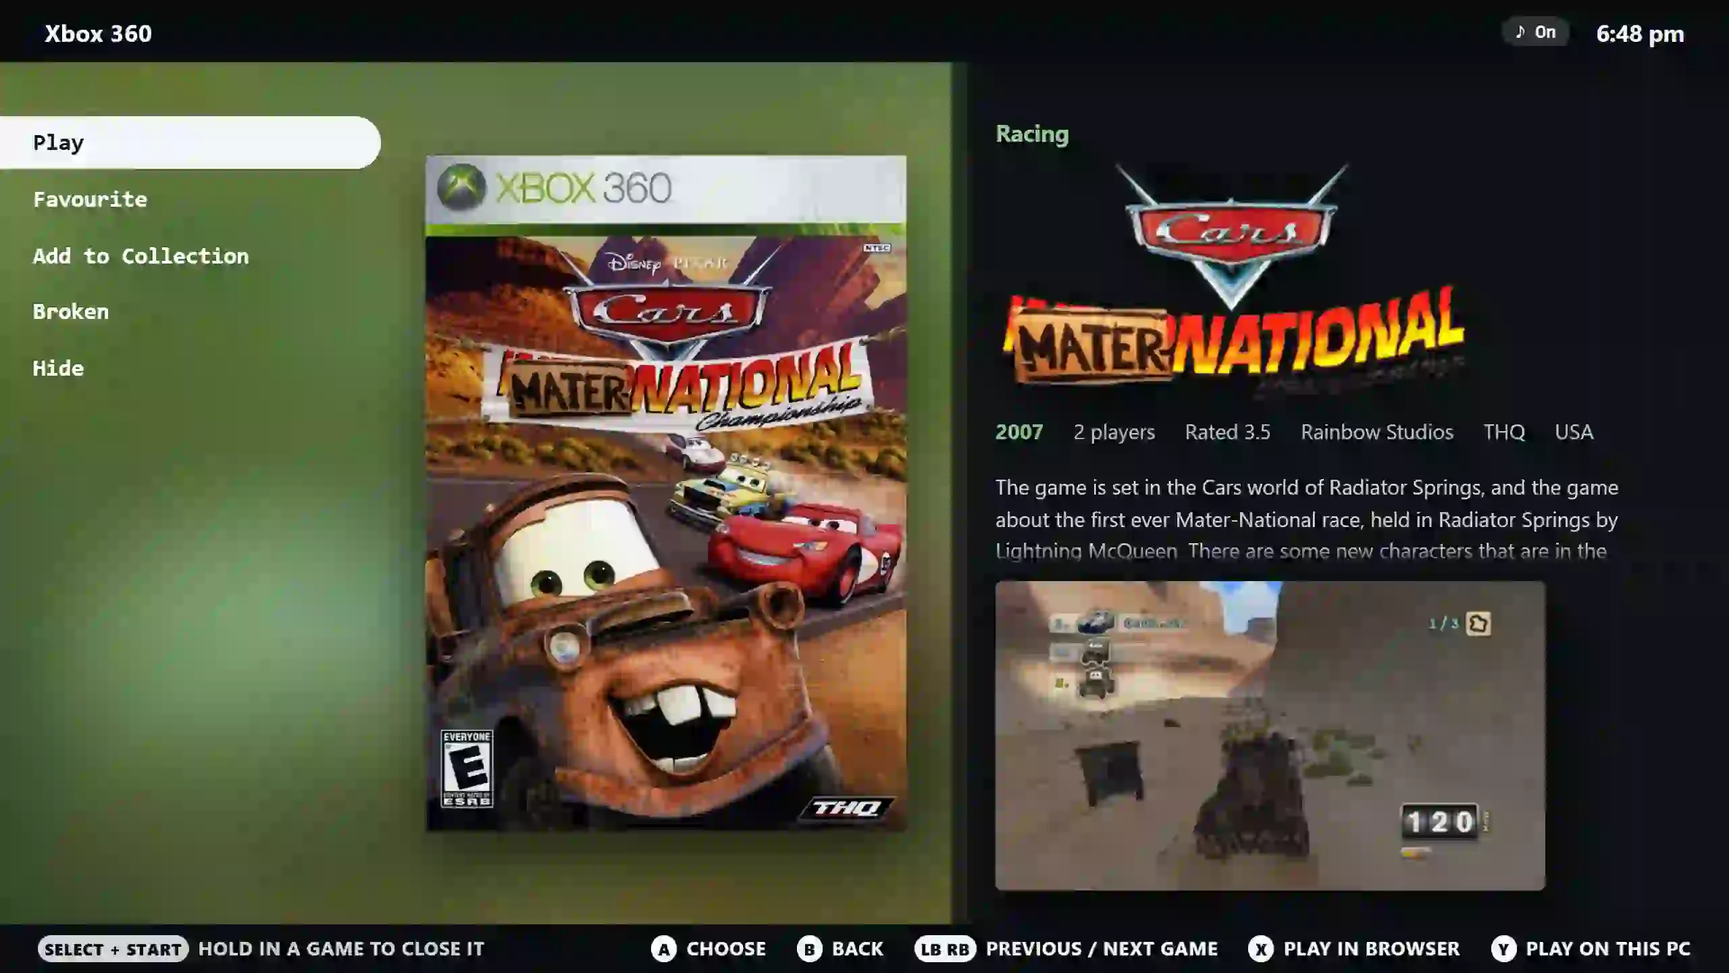
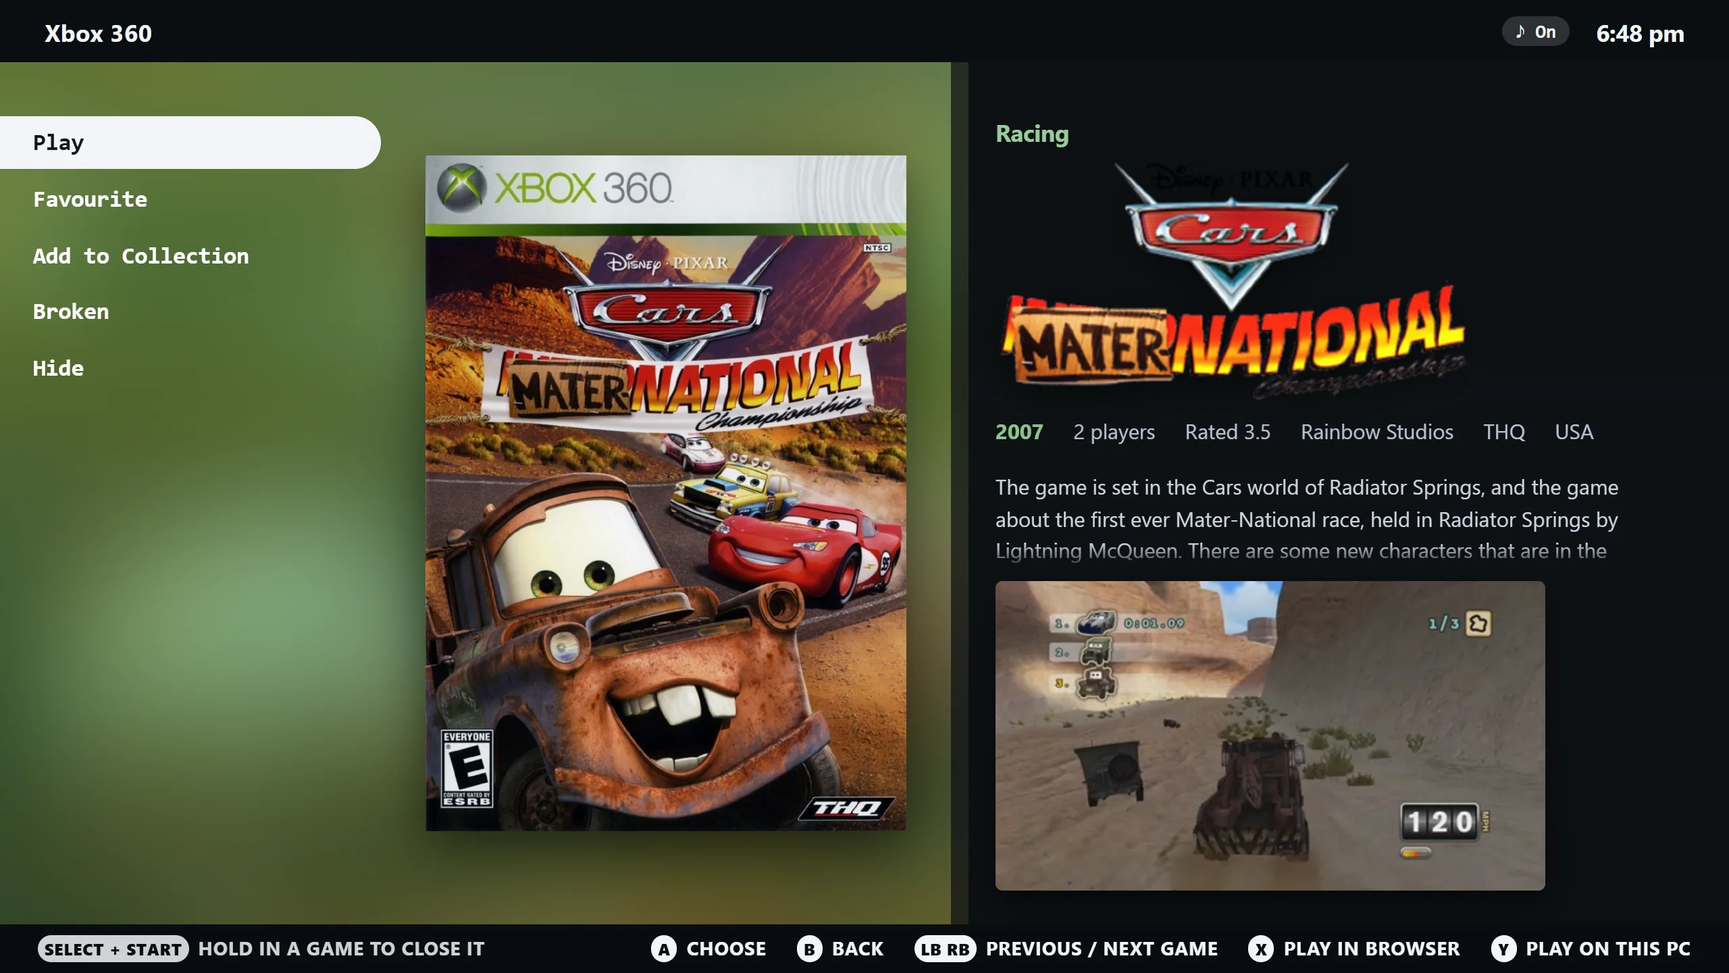
Website: the screenshots and posters are re-encoded properly (the quality setting had been ignored, so they went out blurry and blocky) and the Digital library screenshot is a fresh full-size one with the Steam covers

diff --git a/site/ja/index.html b/site/ja/index.html
@@ -99,7 +99,7 @@
         <a class="slide-hit" href="#shelf" aria-label="あなたの棚：持っているディスクとカートリッジ"></a>
       </div>
       <div class="slide fit">
-        <img data-src="../img/digital-library.webp" loading="lazy" width="1600" height="736" alt="デジタルライブラリ：プレイ時間付きの Steam ゲームのグリッドと、Steam、PlayStation、Nintendo、Xbox のタブ">
+        <img data-src="../img/digital-library.webp" loading="lazy" width="2560" height="1440" alt="デジタルライブラリ：プレイ時間つきの Steam ゲームの一覧と、Steam およびコンソールストアのタブ">
         <div class="slide-cap"><p class="slide-title">棚も Steam も</p><p class="slide-sub">Steam ライブラリをプレイ時間付きで取り込み、PlayStation、Nintendo、Xbox のゲームもリストから取り込めます。実際に持っているディスクやカートリッジも、ROM と並べて記録できます。</p></div>
         <a class="slide-hit" href="#features" aria-label="棚も Steam も"></a>
       </div>
@@ -266,7 +266,7 @@
       <figure class="shot"><img src="../img/shelf-open.webp" loading="lazy" width="2560" height="1440" alt="物理ライブラリの棚。緑の Xbox 360 のケースが開き、説明書とディスクが見える"><figcaption>棚で開いたケース</figcaption></figure>
       <figure class="shot"><img src="../img/carousel.webp" loading="lazy" width="1920" height="1080" alt="カルーセル：扇状のカバーと、その下の「ブラウザーでプレイ」「この PC でプレイ」"><figcaption>カルーセル</figcaption></figure>
       <figure class="shot"><img src="../img/launcher-setup.webp" loading="lazy" width="1500" height="1000" alt="ランチャーの設定ページ：プラットフォームごとの行に、エミュレーターのプログラムと引数、RetroArch のコアのボタン"><figcaption>PC でエミュレーターを設定、RetroArch のコア選択付き</figcaption></figure>
-      <figure class="shot"><img src="../img/digital-library.webp" loading="lazy" width="1600" height="736" alt="デジタルライブラリ：プレイ時間付きの Steam ゲームのグリッドと、Steam、PlayStation、Nintendo、Xbox のタブ"><figcaption>デジタルライブラリ：Steam のゲームと、持っているコンソールゲーム</figcaption></figure>
+      <figure class="shot"><img src="../img/digital-library.webp" loading="lazy" width="2560" height="1440" alt="デジタルライブラリ：プレイ時間つきの Steam ゲームの一覧と、Steam およびコンソールストアのタブ"><figcaption>デジタルライブラリ：Steam のゲームと、持っているコンソールゲーム</figcaption></figure>
       <figure class="shot"><img src="../img/emulators.webp" loading="lazy" width="1500" height="900" alt="プラットフォームごとにカードがあるエミュレーターのページ"><figcaption>エミュレーター</figcaption></figure>
     </div>
   </div>

diff --git a/site/fr/index.html b/site/fr/index.html
@@ -99,7 +99,7 @@
         <a class="slide-hit" href="#shelf" aria-label="Votre étagère : les disques et cartouches que vous possédez"></a>
       </div>
       <div class="slide fit">
-        <img data-src="../img/digital-library.webp" loading="lazy" width="1600" height="736" alt="La bibliothèque numérique : une grille de jeux Steam avec les heures jouées, et des onglets Steam, PlayStation, Nintendo et Xbox">
+        <img data-src="../img/digital-library.webp" loading="lazy" width="2560" height="1440" alt="La bibliothèque numérique : une grille de jeux Steam avec les heures jouées, et des onglets pour Steam et les boutiques de consoles">
         <div class="slide-cap"><p class="slide-title">Votre étagère et votre Steam aussi</p><p class="slide-sub">Importez votre bibliothèque Steam avec les heures jouées, et vos jeux PlayStation, Nintendo et Xbox depuis une liste. Suivez aussi les disques et cartouches que vous possédez physiquement, le tout à côté de vos ROM.</p></div>
         <a class="slide-hit" href="#features" aria-label="Votre étagère et votre Steam aussi"></a>
       </div>
@@ -266,7 +266,7 @@
       <figure class="shot"><img src="../img/shelf-open.webp" loading="lazy" width="2560" height="1440" alt="L’étagère Physique avec un boîtier Xbox 360 vert ouvert, montrant son manuel et son disque"><figcaption>Un boîtier ouvert sur l'étagère</figcaption></figure>
       <figure class="shot"><img src="../img/carousel.webp" loading="lazy" width="1920" height="1080" alt="Le Carrousel : un éventail de jaquettes avec Jouer dans le navigateur et Jouer sur ce PC en dessous"><figcaption>Le Carrousel</figcaption></figure>
       <figure class="shot"><img src="../img/launcher-setup.webp" loading="lazy" width="1500" height="1000" alt="La page de configuration du lanceur : une ligne par plateforme avec son programme d'émulateur et ses arguments, et un bouton de cœur RetroArch"><figcaption>Configurer les émulateurs sur votre PC, avec un sélecteur de cœur RetroArch</figcaption></figure>
-      <figure class="shot"><img src="../img/digital-library.webp" loading="lazy" width="1600" height="736" alt="La bibliothèque numérique : une grille de jeux Steam avec les heures jouées, et des onglets Steam, PlayStation, Nintendo et Xbox"><figcaption>La bibliothèque numérique : vos jeux Steam et les jeux de console que vous possédez</figcaption></figure>
+      <figure class="shot"><img src="../img/digital-library.webp" loading="lazy" width="2560" height="1440" alt="La bibliothèque numérique : une grille de jeux Steam avec les heures jouées, et des onglets pour Steam et les boutiques de consoles"><figcaption>La bibliothèque numérique : vos jeux Steam et les jeux de console que vous possédez</figcaption></figure>
       <figure class="shot"><img src="../img/emulators.webp" loading="lazy" width="1500" height="900" alt="La page Émulateurs, avec une carte par plateforme"><figcaption>Émulateurs</figcaption></figure>
     </div>
   </div>

diff --git a/site/de/index.html b/site/de/index.html
@@ -99,7 +99,7 @@
         <a class="slide-hit" href="#shelf" aria-label="Dein Regal: Discs und Module, die du besitzt"></a>
       </div>
       <div class="slide fit">
-        <img data-src="../img/digital-library.webp" loading="lazy" width="1600" height="736" alt="Die digitale Bibliothek: ein Raster aus Steam-Spielen mit Spielstunden und Tabs für Steam, PlayStation, Nintendo und Xbox">
+        <img data-src="../img/digital-library.webp" loading="lazy" width="2560" height="1440" alt="Die digitale Bibliothek: ein Raster mit Steam-Spielen und ihren Spielstunden sowie Reiter für Steam und die Konsolen-Stores">
         <div class="slide-cap"><p class="slide-title">Dein Regal und dein Steam auch</p><p class="slide-sub">Hole deine Steam-Bibliothek mit den Stunden, die du gespielt hast, und deine PlayStation-, Nintendo- und Xbox-Spiele aus einer Liste herein. Erfasse auch die Discs und Module, die du physisch besitzt, alles neben deinen ROMs.</p></div>
         <a class="slide-hit" href="#features" aria-label="Dein Regal und dein Steam auch"></a>
       </div>
@@ -266,7 +266,7 @@
       <figure class="shot"><img src="../img/shelf-open.webp" loading="lazy" width="2560" height="1440" alt="Das Physical-Regal mit einer geöffneten grünen Xbox-360-Hülle, in der Anleitung und Disc zu sehen sind"><figcaption>Eine geöffnete Hülle im Regal</figcaption></figure>
       <figure class="shot"><img src="../img/carousel.webp" loading="lazy" width="1920" height="1080" alt="Das Karussell: ein Fächer aus Covern mit Im Browser spielen und Auf diesem PC spielen darunter"><figcaption>Das Karussell</figcaption></figure>
       <figure class="shot"><img src="../img/launcher-setup.webp" loading="lazy" width="1500" height="1000" alt="Die Launcher-Einrichtungsseite: eine Zeile pro Plattform mit ihrem Emulatorprogramm und den Argumenten und einer RetroArch-Core-Schaltfläche"><figcaption>Emulatoren auf deinem PC einrichten, mit einer RetroArch-Core-Auswahl</figcaption></figure>
-      <figure class="shot"><img src="../img/digital-library.webp" loading="lazy" width="1600" height="736" alt="Die digitale Bibliothek: ein Raster aus Steam-Spielen mit Spielstunden und Tabs für Steam, PlayStation, Nintendo und Xbox"><figcaption>Die digitale Bibliothek: deine Steam-Spiele und die Konsolenspiele, die du besitzt</figcaption></figure>
+      <figure class="shot"><img src="../img/digital-library.webp" loading="lazy" width="2560" height="1440" alt="Die digitale Bibliothek: ein Raster mit Steam-Spielen und ihren Spielstunden sowie Reiter für Steam und die Konsolen-Stores"><figcaption>Die digitale Bibliothek: deine Steam-Spiele und die Konsolenspiele, die du besitzt</figcaption></figure>
       <figure class="shot"><img src="../img/emulators.webp" loading="lazy" width="1500" height="900" alt="Die Emulatoren-Seite, mit einer Karte für jede Plattform"><figcaption>Emulatoren</figcaption></figure>
     </div>
   </div>

diff --git a/site/it/index.html b/site/it/index.html
@@ -99,7 +99,7 @@
         <a class="slide-hit" href="#shelf" aria-label="Il tuo scaffale: dischi e cartucce che possiedi"></a>
       </div>
       <div class="slide fit">
-        <img data-src="../img/digital-library.webp" loading="lazy" width="1600" height="736" alt="La libreria Digitale: una griglia di giochi Steam con le ore giocate e schede per Steam, PlayStation, Nintendo e Xbox">
+        <img data-src="../img/digital-library.webp" loading="lazy" width="2560" height="1440" alt="La libreria digitale: una griglia di giochi Steam con le ore giocate e le schede per Steam e per gli store delle console">
         <div class="slide-cap"><p class="slide-title">Il tuo scaffale e anche il tuo Steam</p><p class="slide-sub">Importa la tua libreria Steam con le ore che hai giocato e i tuoi giochi PlayStation, Nintendo e Xbox da un elenco. Tieni traccia anche dei dischi e delle cartucce che possiedi fisicamente, tutto accanto alle tue ROM.</p></div>
         <a class="slide-hit" href="#features" aria-label="Il tuo scaffale e anche il tuo Steam"></a>
       </div>
@@ -266,7 +266,7 @@
       <figure class="shot"><img src="../img/shelf-open.webp" loading="lazy" width="2560" height="1440" alt="Lo scaffale Fisico con una custodia verde di Xbox 360 aperta, che mostra il manuale e il disco"><figcaption>Una custodia aperta sullo scaffale</figcaption></figure>
       <figure class="shot"><img src="../img/carousel.webp" loading="lazy" width="1920" height="1080" alt="Il Carosello: un ventaglio di copertine con Gioca nel browser e Gioca su questo PC sotto"><figcaption>Il Carosello</figcaption></figure>
       <figure class="shot"><img src="../img/launcher-setup.webp" loading="lazy" width="1500" height="1000" alt="La pagina di configurazione del launcher: una riga per ogni piattaforma con il suo programma emulatore e gli argomenti, e un pulsante per i core RetroArch"><figcaption>Configurazione degli emulatori sul tuo PC, con un selettore di core RetroArch</figcaption></figure>
-      <figure class="shot"><img src="../img/digital-library.webp" loading="lazy" width="1600" height="736" alt="La libreria Digitale: una griglia di giochi Steam con le ore giocate e schede per Steam, PlayStation, Nintendo e Xbox"><figcaption>La libreria Digitale: i tuoi giochi Steam e i giochi per console che possiedi</figcaption></figure>
+      <figure class="shot"><img src="../img/digital-library.webp" loading="lazy" width="2560" height="1440" alt="La libreria digitale: una griglia di giochi Steam con le ore giocate e le schede per Steam e per gli store delle console"><figcaption>La libreria Digitale: i tuoi giochi Steam e i giochi per console che possiedi</figcaption></figure>
       <figure class="shot"><img src="../img/emulators.webp" loading="lazy" width="1500" height="900" alt="La pagina degli emulatori, con una scheda per ogni piattaforma"><figcaption>Emulatori</figcaption></figure>
     </div>
   </div>

diff --git a/site/es/index.html b/site/es/index.html
@@ -99,7 +99,7 @@
         <a class="slide-hit" href="#shelf" aria-label="Tu estantería: discos y cartuchos que tienes"></a>
       </div>
       <div class="slide fit">
-        <img data-src="../img/digital-library.webp" loading="lazy" width="1600" height="736" alt="La biblioteca digital: una cuadrícula de juegos de Steam con horas jugadas, y pestañas de Steam, PlayStation, Nintendo y Xbox">
+        <img data-src="../img/digital-library.webp" loading="lazy" width="2560" height="1440" alt="La biblioteca digital: una cuadrícula de juegos de Steam con las horas jugadas y pestañas para Steam y las tiendas de consolas">
         <div class="slide-cap"><p class="slide-title">Tu estantería y tu Steam también</p><p class="slide-sub">Trae tu biblioteca de Steam con las horas que has jugado, y tus juegos de PlayStation, Nintendo y Xbox desde una lista. Registra también los discos y cartuchos que tienes físicamente, todo junto a tus ROM.</p></div>
         <a class="slide-hit" href="#features" aria-label="Tu estantería y tu Steam también"></a>
       </div>
@@ -266,7 +266,7 @@
       <figure class="shot"><img src="../img/shelf-open.webp" loading="lazy" width="2560" height="1440" alt="La estantería Física con una caja verde de Xbox 360 abierta, que muestra su manual y su disco"><figcaption>Una caja abierta en la estantería</figcaption></figure>
       <figure class="shot"><img src="../img/carousel.webp" loading="lazy" width="1920" height="1080" alt="El Carrusel: un abanico de carátulas con Jugar en el navegador y Jugar en este PC debajo"><figcaption>El Carrusel</figcaption></figure>
       <figure class="shot"><img src="../img/launcher-setup.webp" loading="lazy" width="1500" height="1000" alt="La página de configuración del lanzador: una fila por plataforma con su programa emulador y argumentos, y un botón de núcleo de RetroArch"><figcaption>Configurar emuladores en tu PC, con un selector de núcleos de RetroArch</figcaption></figure>
-      <figure class="shot"><img src="../img/digital-library.webp" loading="lazy" width="1600" height="736" alt="La biblioteca digital: una cuadrícula de juegos de Steam con horas jugadas, y pestañas de Steam, PlayStation, Nintendo y Xbox"><figcaption>La biblioteca digital: tus juegos de Steam y los juegos de consola que tienes</figcaption></figure>
+      <figure class="shot"><img src="../img/digital-library.webp" loading="lazy" width="2560" height="1440" alt="La biblioteca digital: una cuadrícula de juegos de Steam con las horas jugadas y pestañas para Steam y las tiendas de consolas"><figcaption>La biblioteca digital: tus juegos de Steam y los juegos de consola que tienes</figcaption></figure>
       <figure class="shot"><img src="../img/emulators.webp" loading="lazy" width="1500" height="900" alt="La página de emuladores, con una tarjeta por plataforma"><figcaption>Emuladores</figcaption></figure>
     </div>
   </div>

diff --git a/site/pt/index.html b/site/pt/index.html
@@ -99,7 +99,7 @@
         <a class="slide-hit" href="#shelf" aria-label="Sua estante: discos e cartuchos que você tem"></a>
       </div>
       <div class="slide fit">
-        <img data-src="../img/digital-library.webp" loading="lazy" width="1600" height="736" alt="A biblioteca Digital: uma grade de jogos do Steam com horas jogadas, e abas de Steam, PlayStation, Nintendo e Xbox">
+        <img data-src="../img/digital-library.webp" loading="lazy" width="2560" height="1440" alt="A biblioteca digital: uma grade de jogos do Steam com as horas jogadas e abas para o Steam e as lojas de consoles">
         <div class="slide-cap"><p class="slide-title">Sua estante e seu Steam também</p><p class="slide-sub">Traga sua biblioteca do Steam com as horas que você jogou, e seus jogos de PlayStation, Nintendo e Xbox de uma lista. Registre também os discos e cartuchos que você tem fisicamente, tudo ao lado das suas ROMs.</p></div>
         <a class="slide-hit" href="#features" aria-label="Sua estante e seu Steam também"></a>
       </div>
@@ -266,7 +266,7 @@
       <figure class="shot"><img src="../img/shelf-open.webp" loading="lazy" width="2560" height="1440" alt="A estante Física com uma caixa verde de Xbox 360 aberta, mostrando o manual e o disco"><figcaption>Uma caixa aberta na estante</figcaption></figure>
       <figure class="shot"><img src="../img/carousel.webp" loading="lazy" width="1920" height="1080" alt="O Carrossel: um leque de capas com Jogar no navegador e Jogar neste PC embaixo"><figcaption>O Carrossel</figcaption></figure>
       <figure class="shot"><img src="../img/launcher-setup.webp" loading="lazy" width="1500" height="1000" alt="A página de configuração do iniciador: uma linha por plataforma com o programa emulador e os argumentos, e um botão de core do RetroArch"><figcaption>Configurando emuladores no seu PC, com um seletor de core do RetroArch</figcaption></figure>
-      <figure class="shot"><img src="../img/digital-library.webp" loading="lazy" width="1600" height="736" alt="A biblioteca Digital: uma grade de jogos do Steam com horas jogadas, e abas de Steam, PlayStation, Nintendo e Xbox"><figcaption>A biblioteca Digital: seus jogos do Steam e os jogos de console que você tem</figcaption></figure>
+      <figure class="shot"><img src="../img/digital-library.webp" loading="lazy" width="2560" height="1440" alt="A biblioteca digital: uma grade de jogos do Steam com as horas jogadas e abas para o Steam e as lojas de consoles"><figcaption>A biblioteca Digital: seus jogos do Steam e os jogos de console que você tem</figcaption></figure>
       <figure class="shot"><img src="../img/emulators.webp" loading="lazy" width="1500" height="900" alt="A página de emuladores, com um cartão para cada plataforma"><figcaption>Emuladores</figcaption></figure>
     </div>
   </div>

diff --git a/site/zh/index.html b/site/zh/index.html
@@ -99,7 +99,7 @@
         <a class="slide-hit" href="#shelf" aria-label="你的游戏架：你拥有的光盘和卡带"></a>
       </div>
       <div class="slide fit">
-        <img data-src="../img/digital-library.webp" loading="lazy" width="1600" height="736" alt="数字游戏库：带游玩时长的 Steam 游戏网格，以及 Steam、PlayStation、任天堂和 Xbox 标签页">
+        <img data-src="../img/digital-library.webp" loading="lazy" width="2560" height="1440" alt="数字游戏库：显示游玩时长的 Steam 游戏网格，以及 Steam 和主机商店的标签页">
         <div class="slide-cap"><p class="slide-title">还有你的游戏架和 Steam</p><p class="slide-sub">导入你的 Steam 游戏库及游玩时长，并通过列表导入你的 PlayStation、任天堂和 Xbox 游戏。你实际拥有的光盘和卡带也可以记录，全都与你的 ROM 放在一起。</p></div>
         <a class="slide-hit" href="#features" aria-label="还有你的游戏架和 Steam"></a>
       </div>
@@ -266,7 +266,7 @@
       <figure class="shot"><img src="../img/shelf-open.webp" loading="lazy" width="2560" height="1440" alt="实体书架，一个绿色的 Xbox 360 盒子已打开，露出说明书和光盘"><figcaption>游戏架上打开的盒子</figcaption></figure>
       <figure class="shot"><img src="../img/carousel.webp" loading="lazy" width="1920" height="1080" alt="封面轮播：扇形排开的封面，下方是“在浏览器中游玩”和“在此电脑上游玩”"><figcaption>封面轮播</figcaption></figure>
       <figure class="shot"><img src="../img/launcher-setup.webp" loading="lazy" width="1500" height="1000" alt="启动器设置页面：每个平台一行，显示其模拟器程序和参数，另有 RetroArch 核心按钮"><figcaption>在你的电脑上设置模拟器，带有 RetroArch 核心选择器</figcaption></figure>
-      <figure class="shot"><img src="../img/digital-library.webp" loading="lazy" width="1600" height="736" alt="数字游戏库：带游玩时长的 Steam 游戏网格，以及 Steam、PlayStation、任天堂和 Xbox 标签页"><figcaption>数字游戏库：你的 Steam 游戏和你拥有的主机游戏</figcaption></figure>
+      <figure class="shot"><img src="../img/digital-library.webp" loading="lazy" width="2560" height="1440" alt="数字游戏库：显示游玩时长的 Steam 游戏网格，以及 Steam 和主机商店的标签页"><figcaption>数字游戏库：你的 Steam 游戏和你拥有的主机游戏</figcaption></figure>
       <figure class="shot"><img src="../img/emulators.webp" loading="lazy" width="1500" height="900" alt="“模拟器”页面，每个平台一张卡片"><figcaption>模拟器</figcaption></figure>
     </div>
   </div>

diff --git a/site/index.html b/site/index.html
@@ -99,7 +99,7 @@
         <a class="slide-hit" href="#shelf" aria-label="Your shelf: discs and cartridges you own"></a>
       </div>
       <div class="slide fit">
-        <img data-src="img/digital-library.webp" loading="lazy" width="1600" height="736" alt="The Digital library: a grid of Steam games with hours played, and tabs for Steam, PlayStation, Nintendo and Xbox">
+        <img data-src="img/digital-library.webp" loading="lazy" width="2560" height="1440" alt="The Digital library: a grid of Steam games with hours played, and tabs for Steam and the console stores">
         <div class="slide-cap"><p class="slide-title">Your shelf and your Steam too</p><p class="slide-sub">Bring in your Steam library with the hours you have played, and your PlayStation, Nintendo and Xbox games from a list. Track the discs and cartridges you physically own too, all next to your ROMs.</p></div>
         <a class="slide-hit" href="#features" aria-label="Your shelf and your Steam too"></a>
       </div>
@@ -266,7 +266,7 @@
       <figure class="shot"><img src="img/shelf-open.webp" loading="lazy" width="2560" height="1440" alt="The Physical shelf with a green Xbox 360 case open, showing its manual and disc"><figcaption>A case opened on the shelf</figcaption></figure>
       <figure class="shot"><img src="img/carousel.webp" loading="lazy" width="1920" height="1080" alt="The Carousel: a fan of covers with Play in browser and Play on this PC below"><figcaption>The Carousel</figcaption></figure>
       <figure class="shot"><img src="img/launcher-setup.webp" loading="lazy" width="1500" height="1000" alt="The launcher setup page: a row for each platform with its emulator program and arguments, and a RetroArch core button"><figcaption>Setting up emulators on your PC, with a RetroArch core picker</figcaption></figure>
-      <figure class="shot"><img src="img/digital-library.webp" loading="lazy" width="1600" height="736" alt="The Digital library: a grid of Steam games with hours played, and tabs for Steam, PlayStation, Nintendo and Xbox"><figcaption>The Digital library: your Steam games and the console games you own</figcaption></figure>
+      <figure class="shot"><img src="img/digital-library.webp" loading="lazy" width="2560" height="1440" alt="The Digital library: a grid of Steam games with hours played, and tabs for Steam and the console stores"><figcaption>The Digital library: your Steam games and the console games you own</figcaption></figure>
       <figure class="shot"><img src="img/emulators.webp" loading="lazy" width="1500" height="900" alt="The emulators page, with a card for each platform"><figcaption>Emulators</figcaption></figure>
     </div>
   </div>
